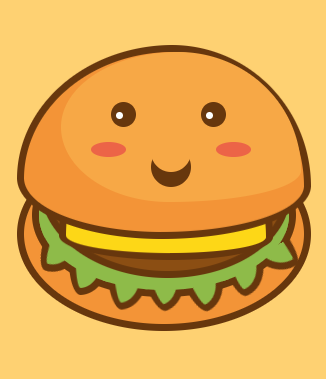
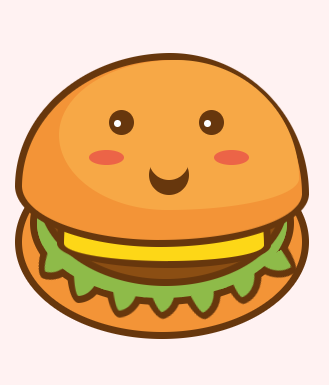
[MODIFY] Project Structure

diff --git a/Terms-Policy-Page/terms-and-policy.css b/Terms-Policy-Page/terms-and-policy.css
@@ -16,14 +16,14 @@ body
 	height: 100vh;
 	display: grid;
 	grid-template-columns: 0.75fr 0.5fr 3fr;
-	grid-template-rows: 0.25fr 1fr 3fr 1fr 3fr 1fr;
+	grid-template-rows: 0.25fr 0.5fr 3fr 1fr 3fr 1fr;
     overflow: scroll;
 }
 
 .grid-wrapper .navbar 
 {
-	grid-row-start: 2;
-	grid-row-end: 3;
+	grid-row-start: 1;
+	grid-row-end: 2;
 	grid-column-start: 1;
 	grid-column-end: 4;
 	width: 100%;
@@ -32,13 +32,14 @@ body
 	grid-template-columns: 1fr 1.5fr 0.5fr;
     grid-template-rows: 1fr;
     grid-gap: 10px;
+    background-color: rgb(212, 160, 160);
 }
 
-.grid-wrapper .navbar .navbar-center
+.grid-wrapper .navbar .navbar-left
 {
 	box-sizing: border-box;
-	grid-column-start: 2;
-    grid-column-end: 3;
+	grid-column-start: 1;
+    grid-column-end: 2;
     display: flex;
 	justify-content: flex-start;
 	align-items: center;
@@ -47,7 +48,7 @@ body
 	width: 100%;
 }
 
-.grid-wrapper .navbar .navbar-center a 
+.grid-wrapper .navbar .navbar-left a 
 {
 	margin-left: 30px;
 	display: block;
@@ -55,7 +56,7 @@ body
 	max-height: 100%;
 }
 
-.grid-wrapper .navbar .navbar-center a img 
+.grid-wrapper .navbar .navbar-left a img 
 {
 	max-width: 100%;
 	max-height: 100%;
@@ -152,14 +153,11 @@ body
     border: none;
     width: 80px;
     height: 35px;
-    transition: width 1s, height 1s;
 }
 
 .home:hover
 {
     background-color: black;
-    width: 100px;
-    height: 40px;
 }
 
 .grid-wrapper .navbar-center 

diff --git a/Terms-Policy-Page/terms-and-policy.html b/Terms-Policy-Page/terms-and-policy.html
@@ -19,17 +19,17 @@
 <body>
     <div class = "grid-wrapper">
         <div class = "navbar"> 
-            <div class = "navbar-center">
-                <a href = "#">
-                    <img src = "../Logo/Logo-final1.png" alt = "Logo">
+            <div class = "navbar-left">
+                <a href = "../MyAccountPage/myaccountPage.html">
+                    <img src = "../Logo/logo3.png" alt = "Logo">
                 </a>
             </div>
 
             <div class = "navbar-right">
                 <div class = "user-info">
                     <div class = "avatar-picture">
-                        <a href = "#">
-                            <img src = "../Other-Photos/avatar-picture.png" alt = "Avatar">
+                        <a href = "../MyAccountPage/myaccountPage.html">
+                            <img src = "../Other-Photos/user.png" alt = "Avatar">
                         </a>
                     </div>
 
@@ -38,7 +38,7 @@
                     </div>
 
                     <div class = "user-settings">
-                        <button class = "home"> Home </button>
+                        <button onclick = "window.location.href = '../Home-Page/home-page.html'" class = "home"> Home </button>
                     </div>
                 </div>
             </div> 

diff --git a/Landing_Page/landing_page.html b/Landing_Page/landing_page.html
@@ -16,7 +16,7 @@
 			<div class="title">WHAT FOOD</div>
 			<div class="animation">
 				<div class="side-left">
-					<button type="button">Login & Register</button>
+					<button type="button" onclick = "window.location.href = '../Sign-In-Sign-Up-Page/sign-in-sign-up.html'">Login & Register</button>
 				</div>
 				<div class="wrapper">
 					<div class="inside">
@@ -59,10 +59,10 @@
 							<div class="light"></div>
 						</div>
 					</div>
-					<img class="resposive-view-burger" src="burger.png" alt="burger">
+					<img class="resposive-view-burger" src="../Other-Photos/burger.png" alt="burger">
 				</div>
 				<div class="side-right">
-					<button type="button">Navigate</button>
+					<button type="button" onclick = "window.location.href = '../Home-Page/home-page.html'">Navigate</button>
 				</div>
 			</div>
 			<div class = "footer"> 
@@ -73,7 +73,7 @@
 	    		</div>
 	    		<div class="right-side">
 	    			<p class="copyright"> © 2021 WhaF. No rights reserved. </p>
-	    			<a class="termeni_si_conditii" href="Terms & Policy page\terms-and-policy.html">Terms and conditions.</a>
+	    			<a class="termeni_si_conditii" href="../Terms-Policy-Page/terms-and-policy.html">Terms and conditions.</a>
 	    		</div>
 	    	</div>
 		</div>

diff --git a/Landing_Page/animation.css b/Landing_Page/animation.css
@@ -1,7 +1,7 @@
 body {
 	border: 0px;
 	margin: 0px;
-	background-color: rgb(254,209,114);
+	background-color: rgb(255, 242, 242);
 }
 
 .title {
@@ -463,10 +463,10 @@ div button
 	display: block;
     width: 200px;
     height: 50px;
-    background-color: rgb(102, 51, 0);
+    background-color: #af6464;
     color: white; 
     padding: 12px 20px;
-    border: 1px solid rgb(102, 51, 0);
+    border: 1px solid #af6464;
     border-radius: 4px;
     cursor: pointer;
     float: right;

diff --git a/AddRecipePage/addrecipePage.html b/AddRecipePage/addrecipePage.html
@@ -20,7 +20,7 @@
 				</div>
 				<div class="navbar-right">
 					<div class="user-info">
-						<div class="avatar-picture"><img src="user.png" alt="u" style="width: 100%; height:100%;"></div>
+						<div class="avatar-picture"><a href="#"><img src="user.png" alt="u" style="width: 100%; height:100%;"></a></div>
 						<div class="username"><p>Username</p></div>
 						<div class="redirect"><a href="#">My Page</a></div>
 					</div>

diff --git a/AddRecipePage/navbar.css b/AddRecipePage/navbar.css
@@ -62,7 +62,6 @@
     padding: 1%;
     justify-content: center;
     align-content: center;
-    background-color: #b84d69;
 }
 
 .viewgrid .navbar .navbar-right .user-info .avatar-picture{
@@ -110,7 +109,7 @@
     display: flex;
     justify-content: center;
     align-items: center;
-    background-color: #e49756;
+    background-color: #bd5d5d;
 }
 
 .viewgrid .navbar .navbar-right .user-info .redirect a{

diff --git a/AddRecipePage/addrecipePageResponsiveView.css b/AddRecipePage/addrecipePageResponsiveView.css
@@ -26,6 +26,7 @@
     	grid-template-rows: 1fr;
     	grid-gap: 0px;
 	}
+
 	.viewgrid .navbar .navbar-right .user-info .username p {
    	 	font-size: 4vw;
    	}
@@ -40,8 +41,8 @@
 	.viewgrid .navbar .navbar-left a {
 		margin-left: 0px;
 		display: block;
-		width: 100%;
-		height: 100%;
+		width: 80%;
+		height: 80%;
 		max-width: 100%;
 		max-height: 100%;
 	}

diff --git a/Landing_Page/landing_page_PhoneView.css b/Landing_Page/landing_page_PhoneView.css
@@ -150,7 +150,7 @@ div button:hover
     height: 100%;
     left: 0;
     bottom: 0;
-    background-color: rgb(255, 177, 80);
+    background-color: rgb(212, 160, 160);
     color: white;
     text-align: center;
     padding: 0px;

diff --git a/Landing_Page/footer.css b/Landing_Page/footer.css
@@ -13,7 +13,7 @@
     position: fixed;
     left: 0;
     bottom: 0;
-    background-color: rgb(255, 177, 80);
+    background-color: rgb(212, 160, 160);
     color: white;
     text-align: center;
 }
